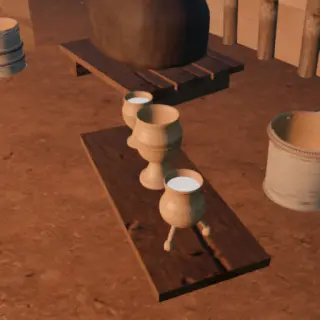
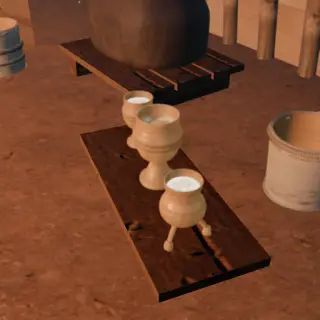
feat(urasa): white frothy kymys, darker turned chorons with grain, wear and a milk film inside

diff --git a/src/models/urasa/mats.js b/src/models/urasa/mats.js
@@ -377,24 +377,37 @@ export function makeMats() {
     M.leather = m;
   }
 
-  // ---- carved birch (chorons, ladle, stirrer, collar): honey patina, darker in the cuts.
-  // Lathe uv: uv.y = profile fraction; uv.x around. uv.x ≥ 5 → plain (no carving bands).
+  // ---- carved birch (chorons, ladle, stirrer, collar): birch darkened by fat and smoke, worn pale on what the hands
+  // and the lips rub, dark in the cuts. Lathe uv: uv.y = profile fraction; uv.x around. uv.x ≥ 5 → plain (no carving
+  // bands); uv.y ≥ 2 → the inside of a bowl (uv.y − 2 = height): a dried film of kymys under the rim.
   {
     const m = std({ name: 'birch-carved' });
     const t0 = uv();
     const plain = t0.x.greaterThan(5);
-    const u = fract(t0.x), v = t0.y;
+    const inside = t0.y.greaterThan(1.5);
+    const u = fract(t0.x), v = inside.select(t0.y.sub(2), t0.y);
     const g = n3(vec3(u.mul(12), v.mul(60), 0.5)).mul(0.5).add(n3(vec3(u.mul(3), v.mul(8), 4.0)).mul(0.5));
+    // turned across the grain: the year rings come out as long loops round the body, fine pores along them
+    const ring = n3(vec3(u.mul(4), v.mul(2.2), 9.0)).mul(9).add(v.mul(5));
+    const grain = abs(fract(ring).sub(0.5)).mul(2).pow(1.6);
+    const pore = n3(vec3(u.mul(240), v.mul(34), 2.0));
     // traced carving (tools/make-carving.mjs, docs/patterns.md): uv.x 0..1 goblet chorons (red, Sieroszewski Rys. 112),
     // uv.x 2..3 the three-legged choron (green, REM 12175-2); uv.x ≥ 5 plain
     const mk = texture(carve, vec2(u, v));
-    const cutAll = select(t0.x.greaterThan(1.5), mk.g, mk.r).mul(plain.select(0, 1));
-    let c = mix(vec3(0.56, 0.36, 0.17), vec3(0.38, 0.22, 0.1), g);
-    c = mix(c, vec3(0.16, 0.08, 0.03), cutAll.mul(0.75));
+    const cutAll = select(t0.x.greaterThan(1.5), mk.g, mk.r).mul(plain.select(0, 1)).mul(inside.select(0, 1));
+    // patina gathers under the rings and in the hollows of the profile; the raised turns are rubbed pale
+    const worn = smoothstep(0.35, 0.8, n3(vec3(u.mul(7), v.mul(5), 21.0))).mul(float(1).sub(cutAll));
+    let c = mix(vec3(0.37, 0.205, 0.085), vec3(0.23, 0.12, 0.05), g);
+    c = c.mul(mix(float(0.9), float(1.05), grain)).mul(pore.mul(0.16).add(0.92));
+    c = mix(c, vec3(0.5, 0.31, 0.15), worn.mul(0.4));
+    c = mix(c, vec3(0.07, 0.035, 0.015), cutAll.mul(0.85));
+    const film = smoothstep(0.93, 0.8, v).mul(smoothstep(0.3, 0.7, n3(vec3(u.mul(9), v.mul(14), 3.0)).add(smoothstep(0.75, 0.4, v).mul(0.5))));
+    c = inside.select(mix(c.mul(0.8), vec3(0.78, 0.74, 0.66), film.mul(0.55)), c);
     m.colorNode = c;
-    m.roughnessNode = mix(float(0.42), float(0.75), cutAll);
-    m.aoNode = occ(p).mul(float(1).sub(cutAll.mul(0.4)));
-    m.normalNode = bump(cutAll.mul(-0.0018).add(g.mul(0.0002)));
+    m.roughnessNode = inside.select(mix(float(0.5), float(0.8), film), mix(float(0.36), float(0.8), cutAll).add(grain.mul(0.1)).sub(worn.mul(0.08)));
+    m.aoNode = occ(p).mul(float(1).sub(cutAll.mul(0.45)));
+    m.emissiveNode = c.mul(vec3(1.0, 0.8, 0.58)).mul(0.035); // the fire's glow off the bark all round: a cup held against the fire is not a black shape
+    m.normalNode = bump(cutAll.mul(-0.0022).add(g.mul(0.0002)).add(grain.mul(0.00012)));
     M.birch = m;
   }
 
@@ -415,19 +428,27 @@ export function makeMats() {
     M.hair = m;
   }
 
-  // ---- kymys in the chorons: milk-white with a faint cool cast, froth gathered in patches and round the rim
+  // ---- kymys in the chorons: white, a froth of fine bubbles round the wall and in drifting patches, thin (the wood
+  // showing through) at the very edge. uv.x: 0 in the middle of the surface, 1 at the wall.
   {
     const m = std({ name: 'kymys' });
     const q = positionLocal;
-    const cell = mx_worley_noise_float(q.mul(260));                         // bubbles
-    const patch = smoothstep(0.42, 0.68, n3(q.mul(46)).mul(0.6).add(n3(q.mul(110)).mul(0.4)));
-    const froth = patch.mul(smoothstep(0.05, 0.4, cell).mul(0.55).add(0.45));
-    const c = mix(vec3(0.8, 0.8, 0.77), vec3(0.97, 0.96, 0.92), froth);
+    const rim = uv().x;
+    const cell = mx_worley_noise_float(q.mul(330));                         // bubbles
+    const fine = mx_worley_noise_float(q.mul(900).add(7.0));
+    const drift = n3(q.mul(46)).mul(0.6).add(n3(q.mul(110)).mul(0.4));
+    const patch = max(smoothstep(0.46, 0.7, drift), smoothstep(0.5, 0.82, rim.add(drift.sub(0.5).mul(0.5))));
+    const bubble = smoothstep(0.04, 0.34, cell).mul(0.4).add(smoothstep(0.05, 0.4, fine).mul(0.2)).add(0.4);
+    const froth = patch.mul(bubble);
+    const thin = smoothstep(0.955, 1.0, rim);
+    let c = mix(vec3(0.8, 0.8, 0.76), vec3(1.0, 0.99, 0.95), froth);
+    c = mix(c, vec3(0.8, 0.66, 0.48), thin.mul(0.6));
     m.colorNode = c;
-    m.emissiveNode = c.mul(0.07);   // firelight scattered inside the milk: it reads pale even facing away from the fire
-    m.roughnessNode = mix(float(0.22), float(0.7), patch);
-    m.aoNode = occ(positionLocal).mul(mix(float(1), cell.mul(0.5).add(0.6), patch));
-    m.normalNode = bump(froth.mul(0.0012));
+    // the fire's light scattered inside the milk: it stays white, and warm, even facing away from the fire
+    m.emissiveNode = c.mul(vec3(1.0, 0.84, 0.66)).mul(mix(float(0.085), float(0.13), froth)).mul(float(1).sub(thin.mul(0.5)));
+    m.roughnessNode = mix(float(0.18), float(0.75), patch);
+    m.aoNode = occ(positionLocal).mul(mix(float(1), cell.mul(0.45).add(0.62), patch));
+    m.normalNode = bump(froth.mul(0.0014));
     M.kymys = m;
   }
 

diff --git a/src/models/urasa/kymys.js b/src/models/urasa/kymys.js
@@ -11,15 +11,15 @@ const setUV = (g, fn) => { const uv = g.attributes.uv, p = g.attributes.position
 const plain = (g, k = 10) => setUV(g, (u, v) => [u + k, v]);
 
 // ---- chorons: lathe bodies; outer vertices get uv.y = height fraction (carving bands), inner ones plain
-function choronBody(prof, lipIndex, H, u0 = 0) {
-  const g = lathe(prof, 28, (r, y, a) => r * (1 + valueNoise(a * 2, y * 30, 17) * 0.006));
-  const segs = 28;
+// (uv.y 2..3 = the height fraction inside the bowl); `segs` round
+function choronBody(prof, lipIndex, H, u0 = 0, segs = 28) {
+  const g = lathe(prof, segs, (r, y, a) => r * (1 + valueNoise(a * 2, y * 30, 17) * 0.006));
   return setUV(g, (u, v, x, y, z, i) => {
     const row = Math.floor(i / (segs + 1));
-    return row <= lipIndex ? [u + u0, y / H] : [u + 10, 2];
+    return row <= lipIndex ? [u + u0, y / H] : [u + 10, 2 + y / H];
   });
 }
-function choronA(scale = 1) {
+function choronA(scale = 1, segs = 28) {
   // standard choron on a conical foot: 22 cm, bowl 14 cm, lip 12.5 cm, raised rings
   const P = [[0.001, 0], [0.055, 0], [0.056, 0.006], [0.054, 0.013], [0.044, 0.017], [0.034, 0.035], [0.026, 0.055], [0.022, 0.07],
     [0.026, 0.075], [0.04, 0.085], [0.052, 0.098], [0.058, 0.11], [0.063, 0.125], [0.0665, 0.128], [0.068, 0.14], [0.07, 0.152],
@@ -28,7 +28,7 @@ function choronA(scale = 1) {
     // inside
     [0.056, 0.221], [0.052, 0.21], [0.052, 0.19], [0.06, 0.15], [0.052, 0.115], [0.03, 0.093], [0.001, 0.088]];
   const S = P.map(([r, y]) => [r * scale, y * scale]);
-  const g = choronBody(S, 27, 0.22 * scale);
+  const g = choronBody(S, 27, 0.22 * scale, 0, segs);
   g.userData.inner = S.slice(28);
   return g;
 }
@@ -91,12 +91,14 @@ function kymysSurface(inner, mat, cup, level) {
     return v;
   };
   const brim = (u, s) => top * u.y - rTop * s; // the lip's lowest point along up
-  const N = 28, pos = new Float32Array((N + 2) * 3), nor = new Float32Array((N + 2) * 3), idx = [];
+  const N = 48, pos = new Float32Array((N + 2) * 3), nor = new Float32Array((N + 2) * 3), idx = [];
   for (let i = 1; i <= N; i++) idx.push(0, i + 1, i);
   const g = new THREE.BufferGeometry();
   g.setAttribute('position', new THREE.BufferAttribute(pos, 3).setUsage(THREE.DynamicDrawUsage)); // refitted (src/load/release.js keeps it)
   g.setAttribute('normal', new THREE.BufferAttribute(nor, 3).setUsage(THREE.DynamicDrawUsage));
-  g.setAttribute('uv', new THREE.BufferAttribute(new Float32Array((N + 2) * 2), 2));
+  const fuv = new Float32Array((N + 2) * 2); // uv.x: 0 in the middle, 1 at the wall (the froth ring, the thin edge)
+  for (let i = 0; i <= N; i++) { fuv[(i + 1) * 2] = 1; fuv[(i + 1) * 2 + 1] = i / N; }
+  g.setAttribute('uv', new THREE.BufferAttribute(fuv, 2));
   g.setIndex(idx);
   const mesh = new THREE.Mesh(g, mat);
   mesh.castShadow = false; mesh.userData.noShadow = true; mesh.userData.dynamic = true;
@@ -259,7 +261,7 @@ export function buildKymys(rng, M) {
   add(merge(bd), M.plank, boardRoot);
   const chorons = new THREE.Group();
   boardRoot.add(chorons);
-  const hero = add(choronA(1), M.birch, chorons);
+  const hero = add(choronA(1, 56), M.birch, chorons); // held at the face: rounder
   hero.userData.grips = [{ hand: 'R', p: [0, 0.06, 0], axis: [0, 1, 0], r: 0.024 }]; // by the stem
   hero.position.set(0.02, 0.118, 0.01);
   const b = add(choronB(), M.birch, chorons);

diff --git a/src/models/urasa.js b/src/models/urasa.js
@@ -143,6 +143,7 @@ export default async function build(ctx) {
   // collar (12 whole ones: it foams over, `save.work.kymys`), a long rest lets it fall again.
   const churn = { up: 0, top: 0, fall: 0, lifting: false, t: 0, score: 0, idle: 9, bulge: 0, foamed: 0, base: ky.stirrer.position.y };
   const froth = new THREE.Mesh(new THREE.SphereGeometry(0.06, 14, 8).scale(1, 0.42, 1), M.kymys);
+  { const uv = froth.geometry.attributes.uv; for (let i = 0; i < uv.count; i++) uv.setX(i, 0.9); } // all froth (uv.x: `kymys` in urasa/mats.js)
   froth.position.set(0, ky.neckY + 0.05, 0); froth.visible = false; froth.castShadow = false; froth.userData.dynamic = true;
   ky.sackRoot.add(froth);
   const sound = (game, name, obj) => { const p = new THREE.Vector3(); obj.getWorldPosition(p); game?.audio?.play(name, p); };

diff --git a/docs/models.md b/docs/models.md
@@ -33,7 +33,7 @@ export default async function build(ctx, placement) {
 ## Buildings
 - Balagan: frame 5.7 × 4.7 m, khoton 5.2 × 5 m (narrower, its walls run into the house's north wall); no measured plans found in sources. Nothing crosses the dark lining or the plaster: the roof underside starts just outside the lining, ceiling poles, bark and matitsa end inside the plaster, interior parts follow `inner(F, y)` of the leaning walls; door bays lean back into the roof's underside; the passage's board sides follow the leaning wall; the berm is curbed behind the retaining logs, slumps elsewhere, and the khoton bank ends inside the house berm; sod tops are one sheet from the edge ring to the middle line; outdoor wood uses `M.outWood` / `M.doorWood` (`M.interior` gets the indoor sky cut, and `indoorAO` reads door leaves as deep indoors).
 - Uraha: ~10 m across, ~11 m to the tie (profile `CTRL` in `urasa/frame.js`; sources in its entry's notes); 12 carved posts of 2.03 m, a horsehair cord with white tassels (салама) between them, three hoops, 96 inner poles (sampled by profile bend, `poleRows`), 36 outer; door 1.0 × 1.74 m; ~125k triangles, 25 materials (viewer). The inner bark is one watertight surface; the door cut runs up inside the leaning jambs and ends inside the lintel (`DOOR.cutY`); a rolled rim closes the smoke hole; the cover runs 20 cm into the ground. Interior materials take only the fire light, the outside only the sun.
-- Chorons hold kymys (`urasa/kymys.js` `kymysSurface`): a volume (`vol`, m³) kept level as the cup tilts; past `capacity` it spills.
+- Chorons hold kymys (`urasa/kymys.js` `kymysSurface`): a volume (`vol`, m³) kept level as the cup tilts; past `capacity` it spills; the surface's uv.x runs 0 (middle) → 1 (wall): froth ring and thin edge (`kymys` material).
 - Дьэдьэн (`chores/dyedyen.js`): carpets at `PATCHES` (yard margins, the slope above, the forest's edge), each a pick target; leaves, berries and flower trusses instanced per ~45 m region, on the unrendered layer beyond 80 m (low and phones: 45 m, fewer leaves).
 - An `InstancedMesh` in a model is `userData.dynamic`: `merge.js` size-culls by one instance's bounds at the model's origin.
 - Yard props by the uraha (`yardlife` paths, `chores` pail) take its position from `layout.js` and its door radius from `urasa/frame.js` `DOOR.r`.
